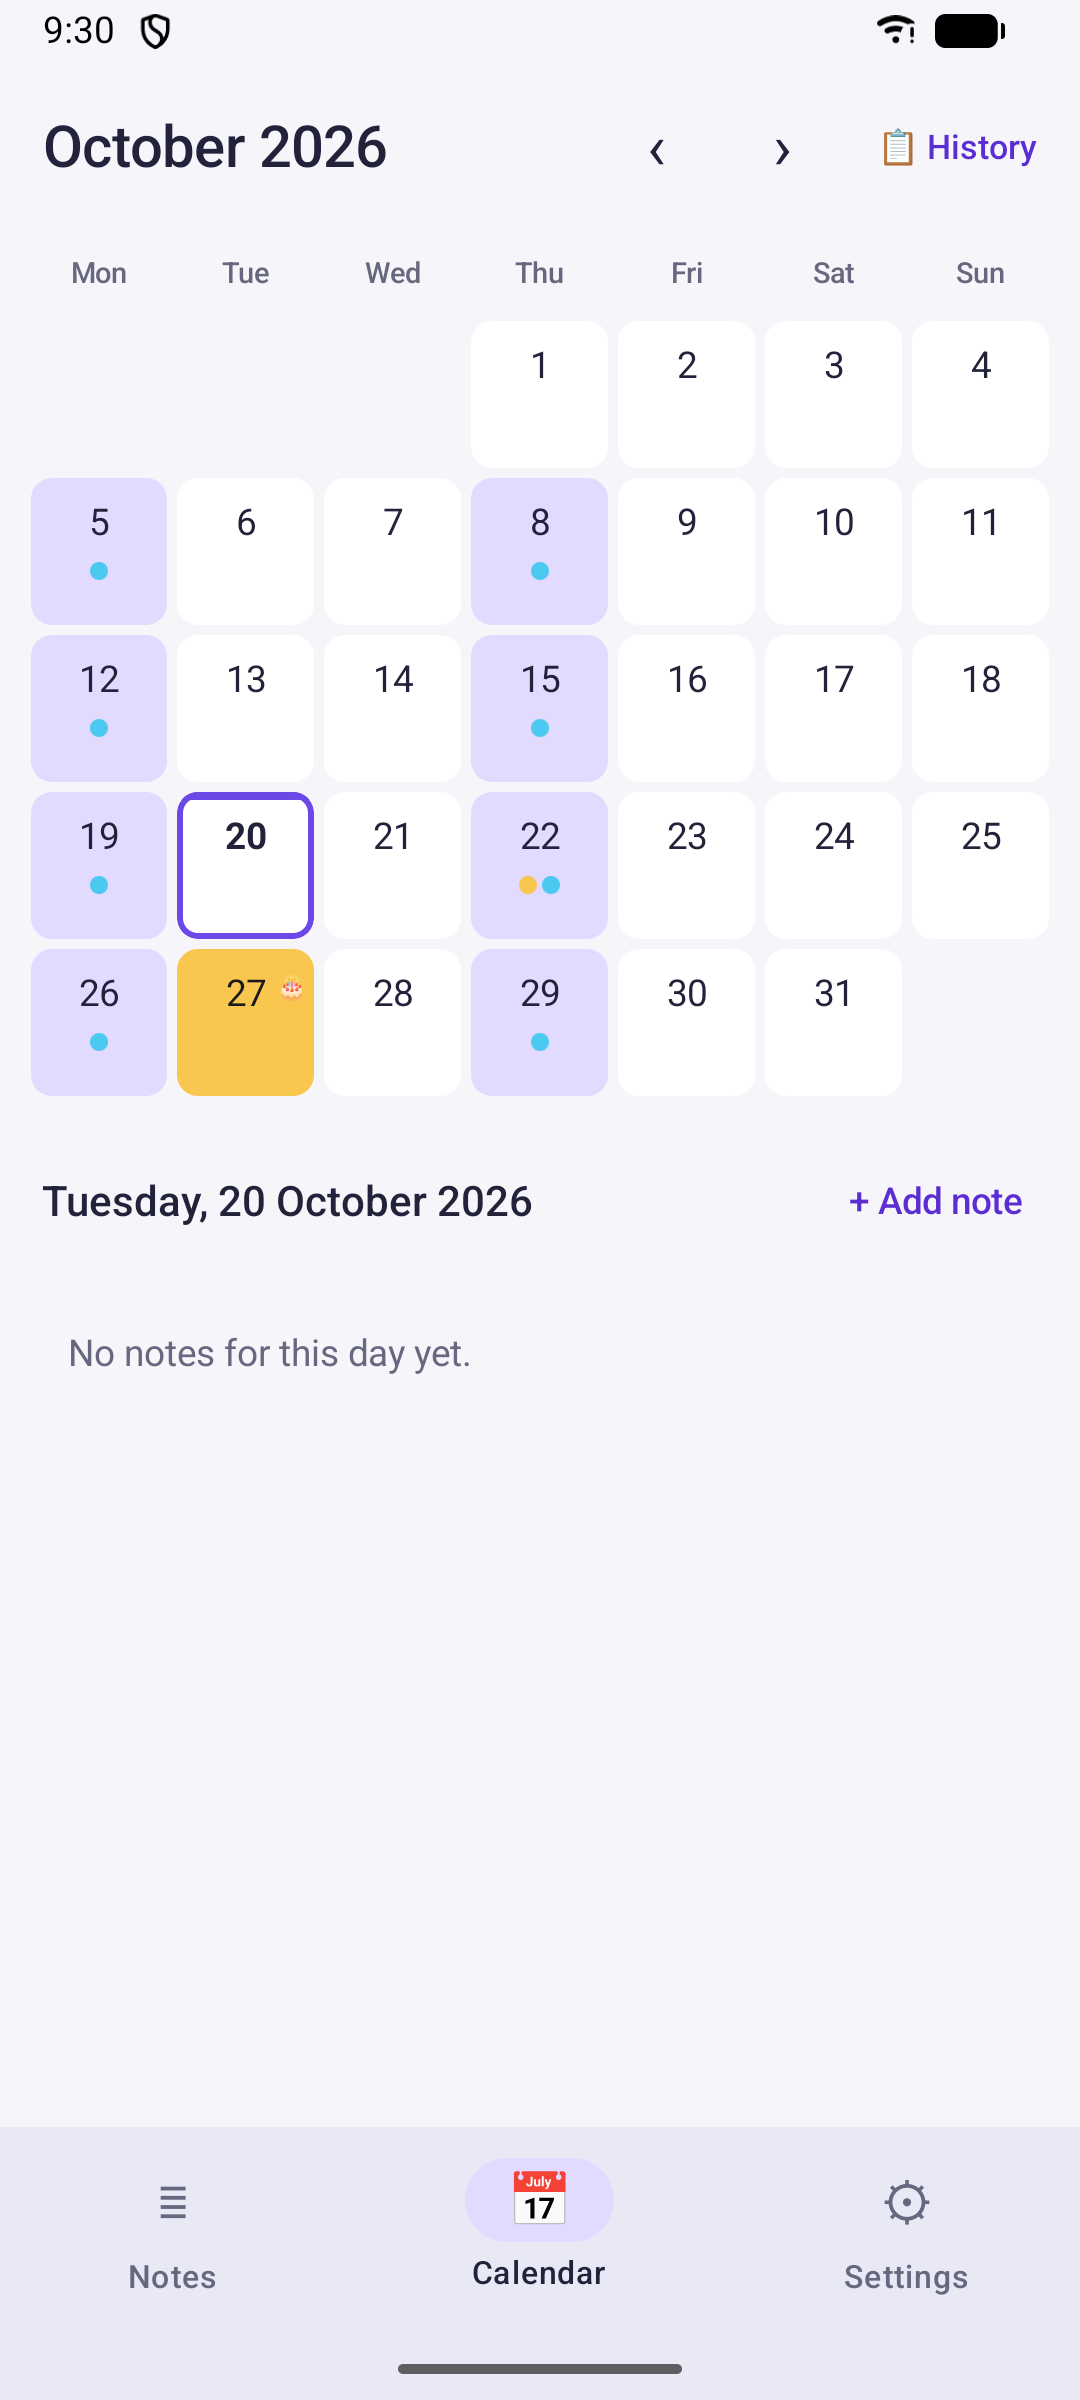
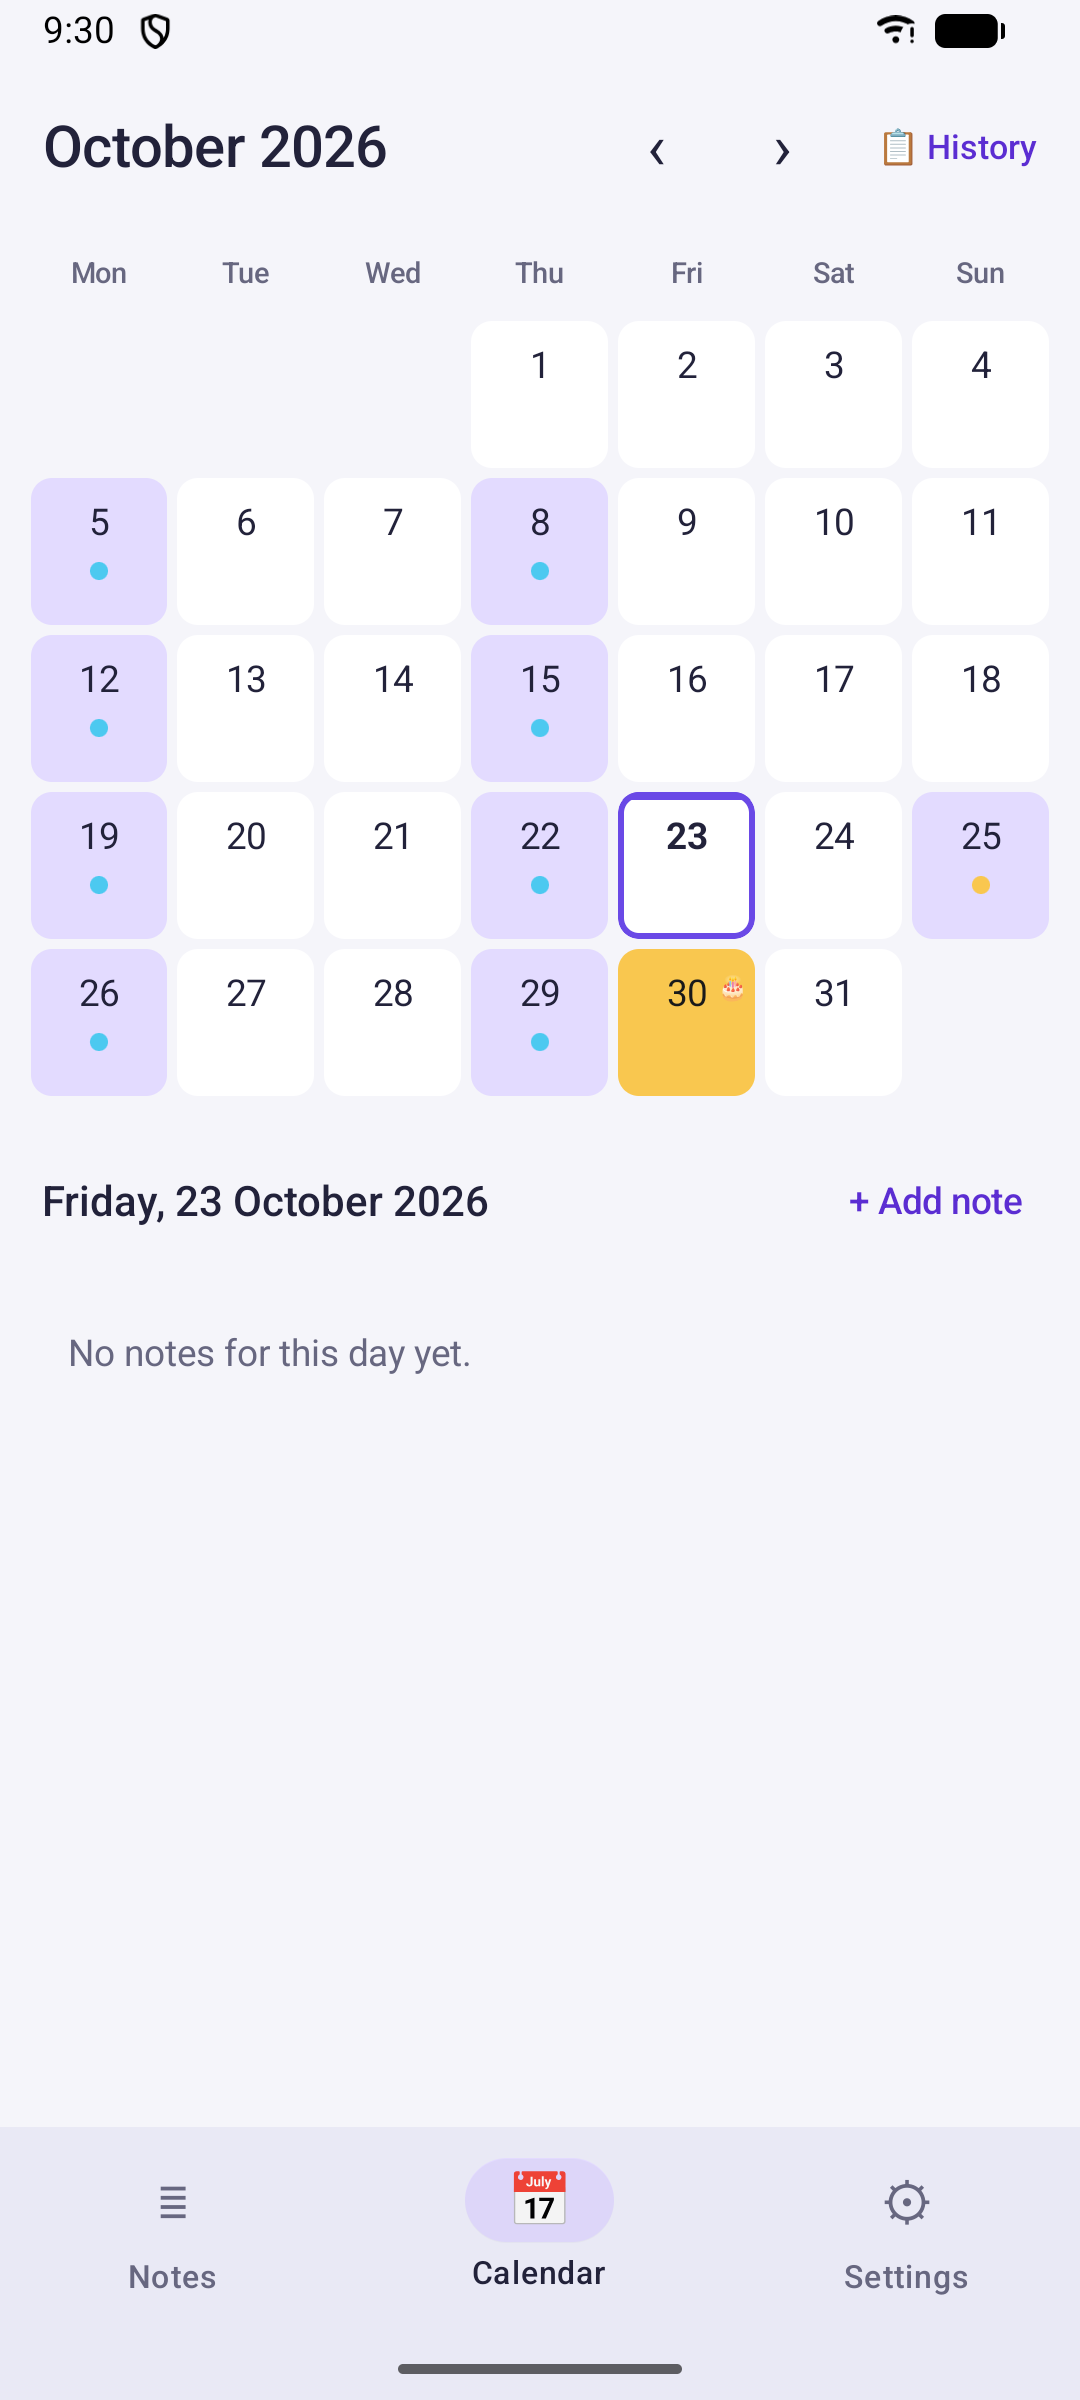
docs: the screenshots retaken for 0.11.0 -- the note's menu, no links under the note, and the wide screen's «
The notebook written for the camera marks the day's reminder as shown, so
the list's pictures do not change with the day they are taken on.

diff --git a/tools/emulator/take_screenshots.py b/tools/emulator/take_screenshots.py
@@ -100,6 +100,10 @@ SETTINGS = {
     "theme": "light",
     "day_colors": {BIRTHDAY: "#f9c74f"},
     "day_emoji": {BIRTHDAY: ["🎂"]},
+    # The day's reminder already shown today: on a Monday or a Thursday the
+    # series falls on the day, and the list would open under its bar -- the
+    # pictures would change with the day they were taken.
+    "reminder_last_shown": TODAY.isoformat(),
 }
 
 # The last shot: the same list in a dark theme.

diff --git a/docs/screenshots/README.md b/docs/screenshots/README.md
@@ -66,5 +66,8 @@ The calendar opens on the month it is run in, so the seed's dates are
 worked out from that day: a month photographed later with an earlier
 month's notes in it would be an empty grid.
 
-**Current set:** captured 2026-10-20 on the emulator, in English, for
-0.9.1's Light | Dark switch. Update this line whenever the set is recaptured.
+**Current set:** captured 2026-10-23 on the emulator, in English, for
+0.11.0: a note's checklist, comments and files added from its ⋮, no links
+under it, and « beside a note on a wide screen. The notebook marks the
+day's reminder as already shown, so a day the series falls on does not
+put its bar over the list. Update this line whenever the set is recaptured.
